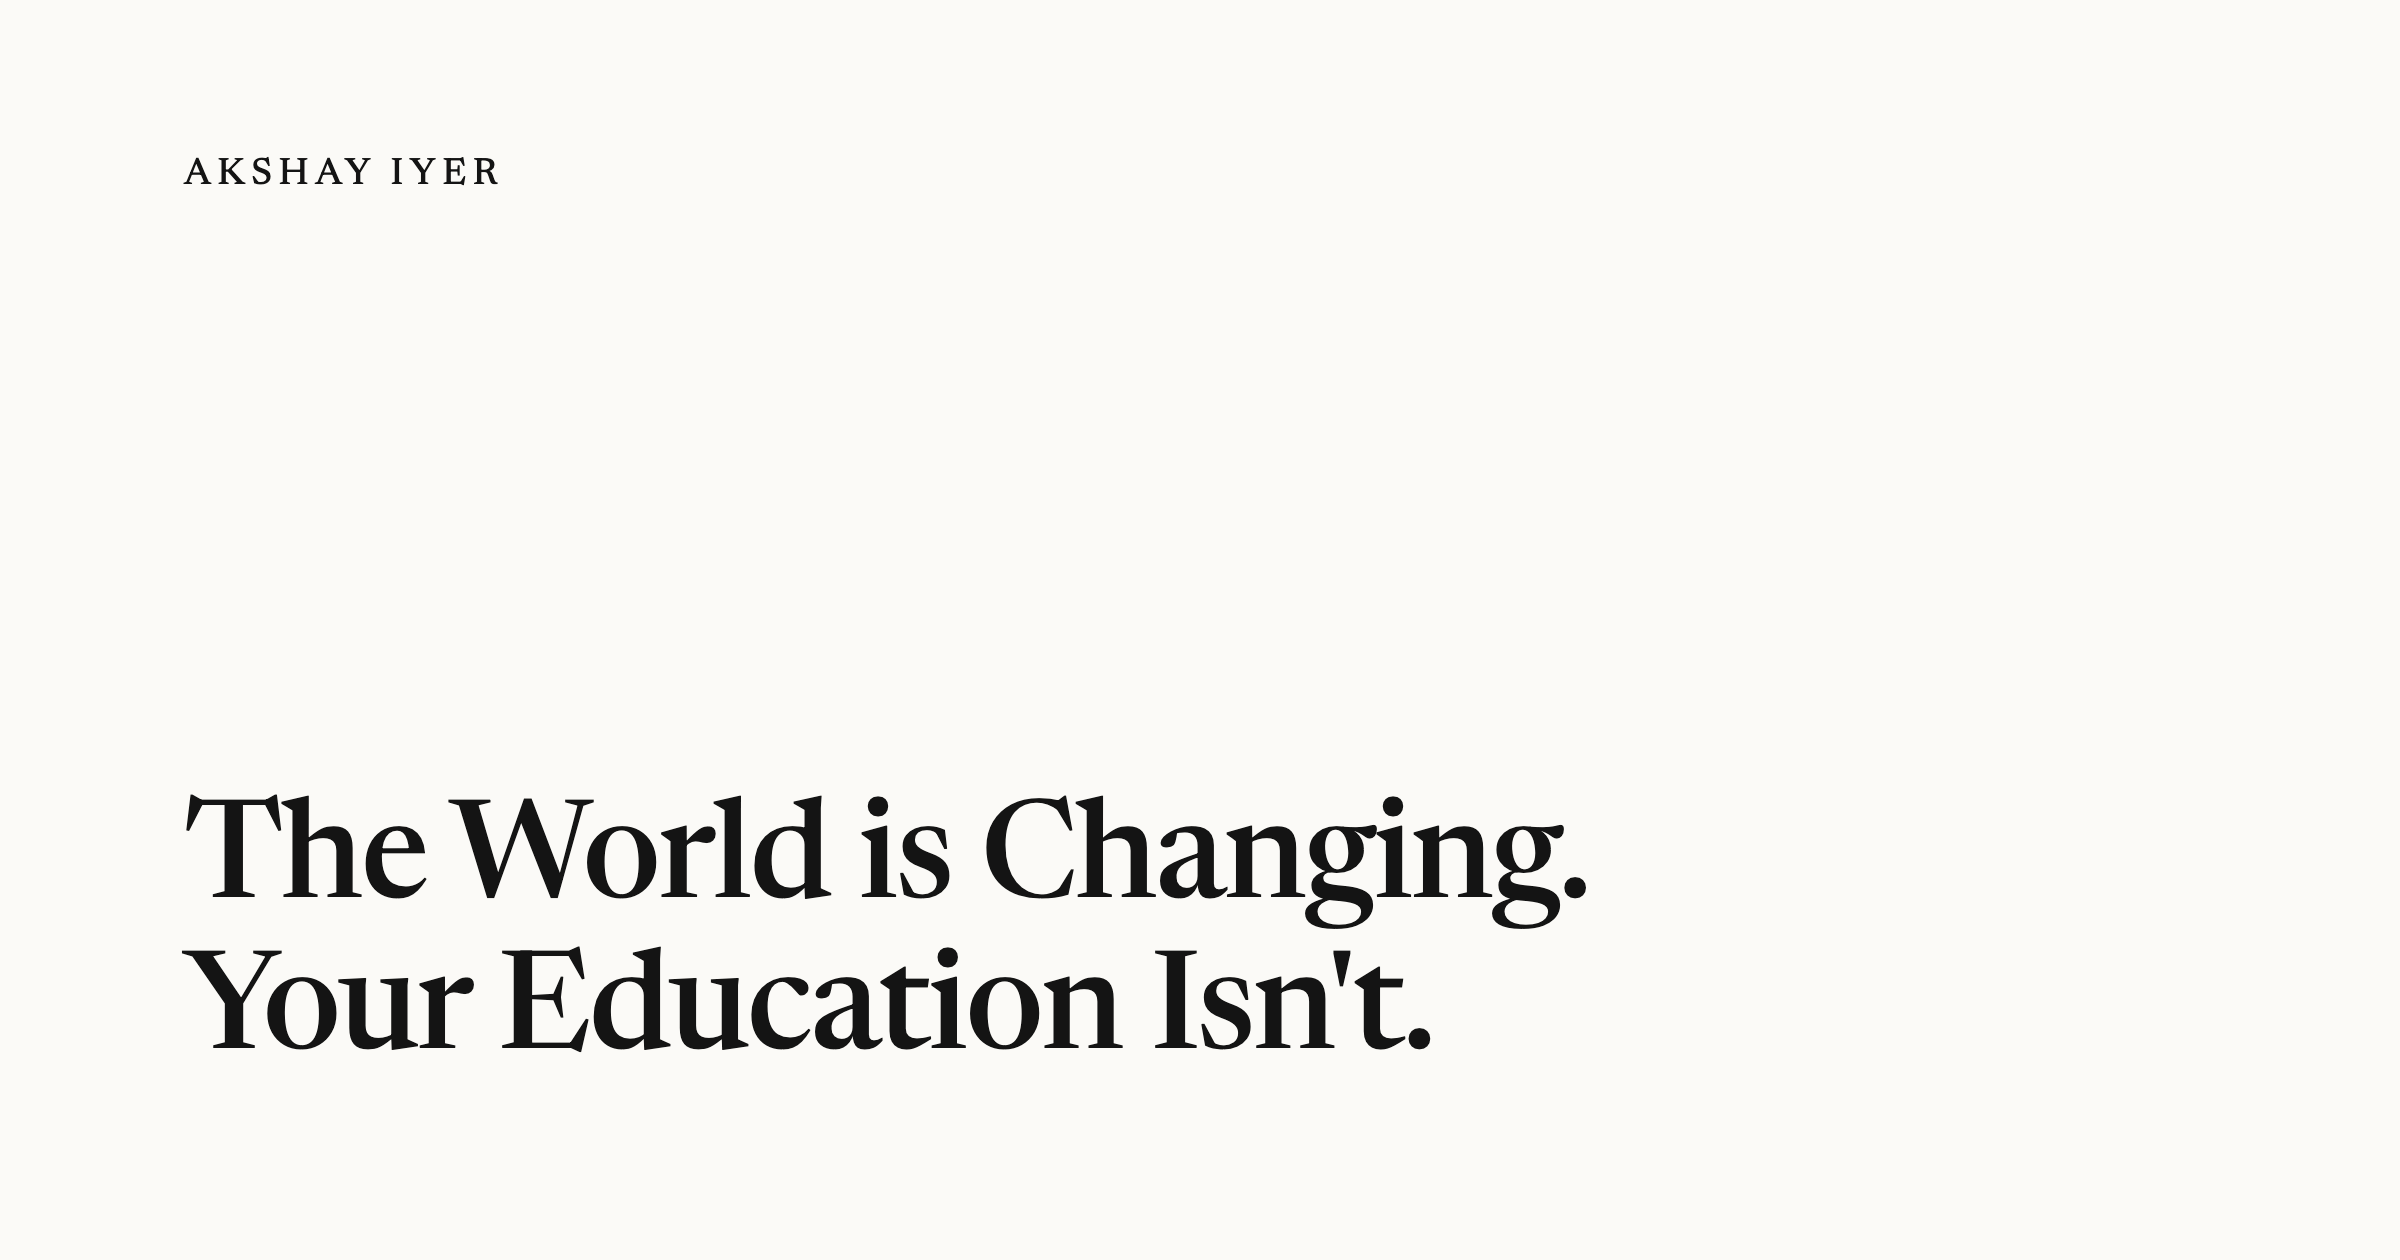
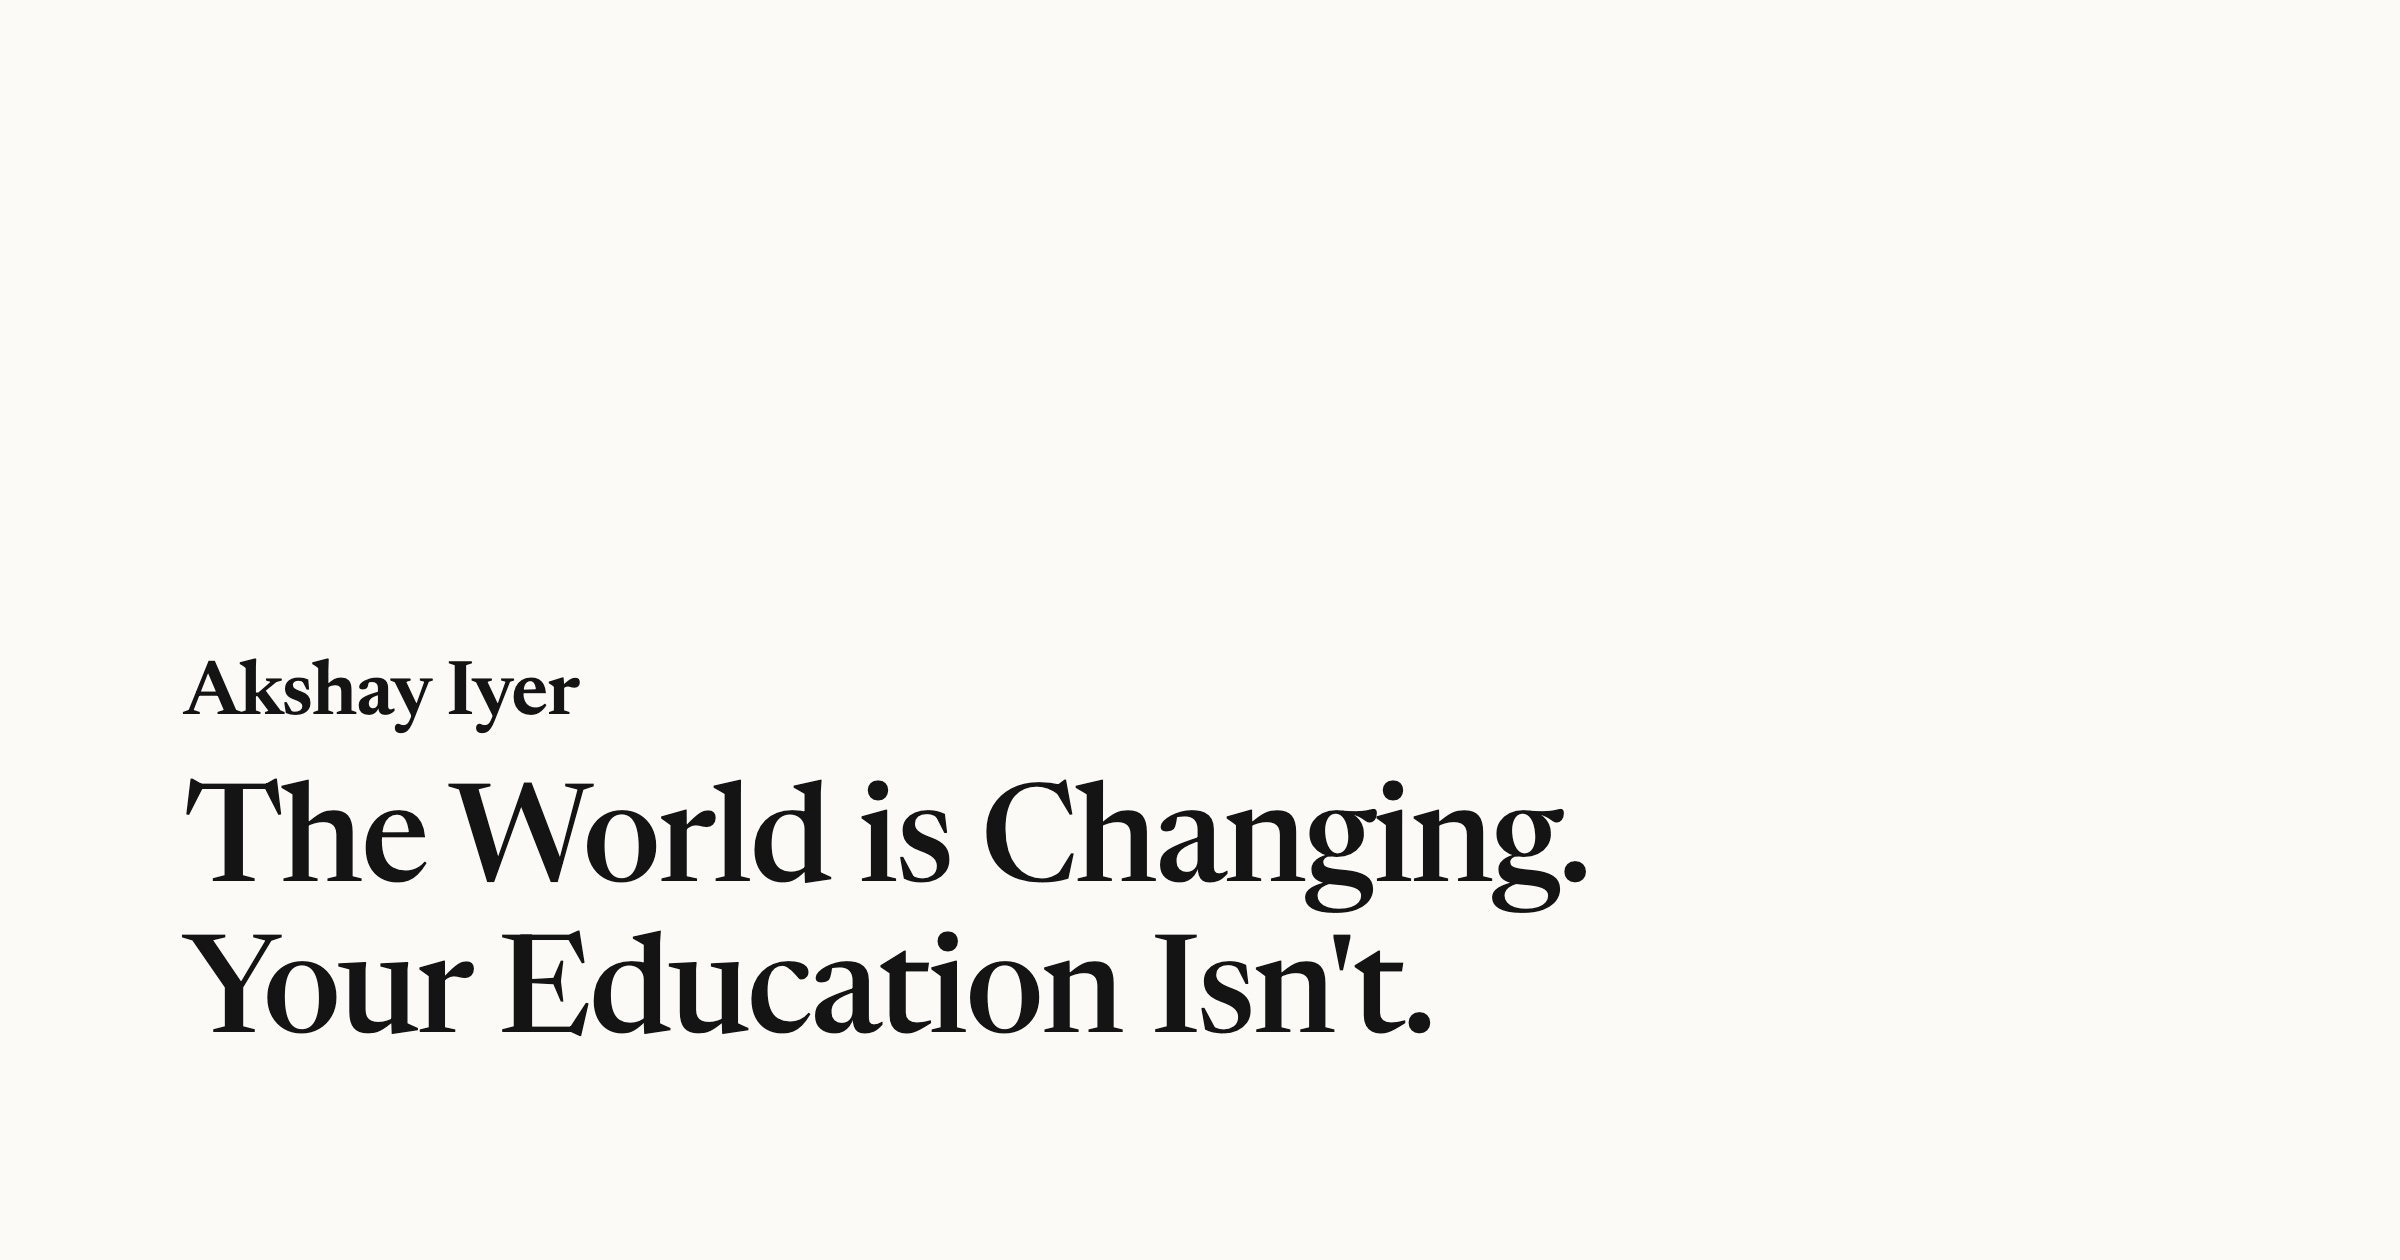
Cover cards: name sits directly above the title

Changed region(s): [[0.0625, 0.619, 0.6875, 0.8357], [0.0625, 0.5262, 0.25, 0.5881], [0.0625, 0.1238, 0.2188, 0.1548]]

diff --git a/tools/og-card.html b/tools/og-card.html
@@ -24,23 +24,17 @@
       color: var(--ink);
       display: flex;
       flex-direction: column;
-      justify-content: space-between;
-      padding: 78px 92px 84px;
+      justify-content: flex-end;
+      padding: 0 92px 92px;
     }
 
-    /* the site's own kicker convention: small, uppercase, letterspaced */
+    /* name sits directly above the title as one block, but smaller than it
+       so the card reads as a title first and a byline second */
     .kicker {
-      font-size: 19px;
-      font-weight: 500;
-      text-transform: uppercase;
-      letter-spacing: 0.17em;
-    }
-
-    .mark {
-      width: 56px;
-      height: 1px;
-      background: var(--rule);
-      margin-bottom: 30px;
+      font-size: 38px;
+      font-weight: 600;
+      letter-spacing: -0.005em;
+      margin-bottom: 20px;
     }
 
     h1 {
